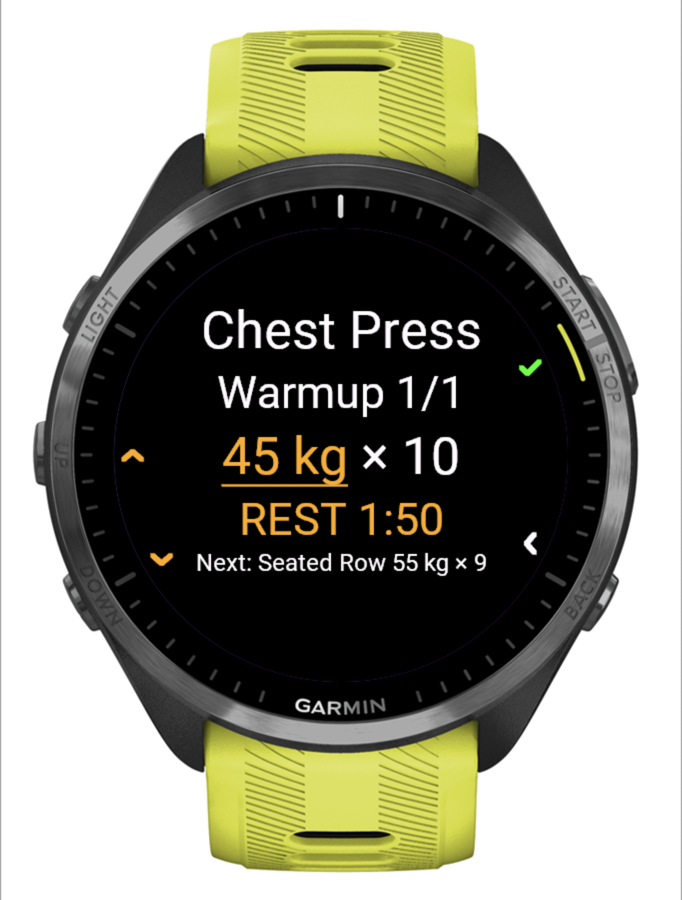
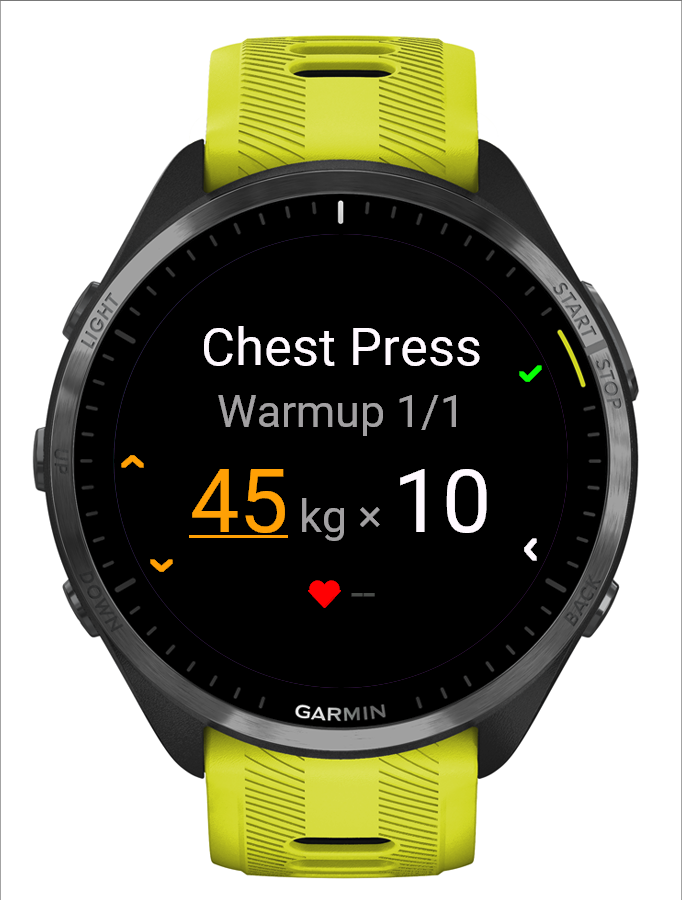
Docs and screenshots for the new screens, pounds and program questions

diff --git a/README.md b/README.md
@@ -11,19 +11,22 @@ No phone in your hand at the gym, no second app, no server in between.
 > NextSet is an independent hobby project. It is not affiliated with or endorsed by Liftosaur or Garmin.
 
 <p align="center">
-  <img src="docs/screenshots/set-rest.png" width="200" alt="Set screen: Seated Row, set 3 of 3, 55 kg × 9, rest timer">
-  <img src="docs/screenshots/change-load.png" width="200" alt="Load selected in yellow on the set screen">
-  <img src="docs/screenshots/overview.png" width="200" alt="Overview: exercise progress, total sets and elapsed time">
-  <img src="docs/screenshots/edit-set.png" width="200" alt="Editing the last logged set">
+  <img src="docs/screenshots/set.png" width="200" alt="Set screen: Seated Row, set dots, 55 kg × 9 with the reps underlined, heart rate">
+  <img src="docs/screenshots/rest.png" width="200" alt="Rest: blue ring and 1:57 countdown, the next set 55 kg × 9">
+  <img src="docs/screenshots/change-load.png" width="200" alt="Warmup with the load selected in yellow">
+  <img src="docs/screenshots/finish.png" width="200" alt="Finish? 2 sets, 1 exercise, 0:40">
 </p>
 <p align="center"><sub>Forerunner 965 simulator with a made-up program (<code>monkey.demo.jungle</code>).</sub></p>
 
 ## Features
 
 - **Your Liftosaur program on the watch.** Sync downloads the days of the current week (up to eight) with per-set targets, warmups, rep ranges, rest timers, supersets and timed sets. After a sync you can train without the phone.
-- **One press per set.** UP/DOWN adjust the reps (or the load, switched from the menu), START logs the set and starts the rest timer. A short vibration warns 10 s before the rest ends, and an overtime clock counts up after it.
-- **Warmups, supersets, timed sets.** Warmups come from the program and upload as Liftosaur warmup sets. Supersets alternate automatically. Timed sets (planks, dead bugs) count down and log the held time.
-- **Change things on the fly.** Change the load, edit or delete the last set, add a set, skip warmups, skip or replace an exercise, or change the weight step (0.5 / 1 / 2.5 / 5 kg).
+- **One press per set.** UP/DOWN adjust the reps (or the load, switched from the menu), START logs the set and starts the rest. The rest is a blue ring around the screen with the time left, and the centre already shows the next set's weight, so you can load the bar or move the pin. A medium vibration comes 10 s before the rest ends, a long one when it is over, and the ring turns green while the overtime counts up.
+- **Heart rate.** The live heart rate sits at the bottom of the set and rest screens; the summary shows the workout's average and maximum.
+- **Kilograms or pounds.** Weights stay in the unit your Liftosaur account uses (`kg` or `lb`), on the watch and in the upload.
+- **Programs that ask for values.** Sets that log an RPE ask for it right after the set, and exercises with prompted variables (Liftoscript `state.name+`) ask for each value after the last set. Both start at the program's suggestion: START saves, BACK keeps the suggestion.
+- **Warmups, supersets, timed sets.** Warmups come from the program and upload as Liftosaur warmup sets. Supersets alternate automatically. Timed sets (planks, dead bugs) count down and log the held time; one-sided timed sets record the left and then the right side.
+- **Change things on the fly.** Change the load, edit or delete the last set, add a set, skip warmups, skip or replace an exercise, or change the weight step (0.5 / 1 / 2.5 / 5 kg, or 1 / 2.5 / 5 / 10 lb).
 - **Direct upload to Liftosaur.** Up to four finished workouts are queued and uploaded over the phone connection. An interrupted upload retries safely, and nothing is sent twice. If the program changed since you trained, the upload stops and tells you, instead of writing to the wrong day.
 - **Garmin activity.** Each workout is also a Training activity in Garmin Connect, with heart rate, duration and one lap per set.
 - **Crash safe.** The workout is saved after every set. If the watch or app restarts, you continue where you were.
@@ -69,23 +72,23 @@ To update a sideloaded copy, copy the new `.prg` over the old one. Your workouts
 2. **Sync.** With the phone nearby, choose **Menu → Settings → Sync routines**, or press START on Home when nothing is synced yet. Home shows "Synced N days" when done.
 3. **Train.** Choose the day with UP/DOWN on Home and press START.
 
-Hold UP to open the menu anywhere. The small icons at the screen edge show what each button does; the UP/DOWN arrows turn yellow while they change the load.
+Hold UP to open the menu anywhere. The small icons at the screen edge show what each button does. Every workout screen keeps the same places: the exercise at the top, set dots (or the rest time) below it, weight and reps in the middle, heart rate at the bottom. Yellow and underlined is what UP/DOWN change.
 
 ## Using NextSet
 
-- **Log a set:** UP/DOWN change the reps, START logs the set and starts the rest. A second press within 800 ms is ignored.
-- **Change the load:** hold UP and choose **Change load** (the first item). The weight turns yellow and UP/DOWN change it by your weight step; fast presses speed up (two, then four steps per press). **Change reps** in the same place switches back. Logging a set switches back to reps. A changed load carries over to the following sets unless the program gives them a different weight. On touch watches you can also tap the weight.
+- **Log a set:** UP/DOWN change the reps, START logs the set and starts the rest. A second press within 800 ms is ignored. If the program asks for an RPE or prompted values, a question screen follows (UP/DOWN change, START saves, BACK keeps the suggestion).
+- **Change the load:** hold UP and choose **Change load** (the first item). The weight turns yellow and underlined, and UP/DOWN change it by your weight step; fast presses speed up (two, then four steps per press). **Change reps** in the same place switches back. Logging a set switches back to reps. A changed load carries over to the following sets unless the program gives them a different weight. On touch watches you can also tap the weight.
 - **Fix the last set:** hold UP for the menu: **Edit last set** (showing its values) and **Delete set N** are at the top. The editor shows load and reps together (hold UP switches between them, START saves, BACK cancels).
-- **Timed sets:** START starts the countdown, START again logs the held time, BACK pauses.
-- **Overview:** BACK from an exercise shows all exercises with progress and the elapsed time. Pick any exercise to train out of order.
+- **Timed sets:** START starts the countdown, START again logs the held time, BACK pauses. A one-sided set shows "Left side", then "Right side": hold each side and press START after each.
+- **Overview:** BACK from an exercise shows the exercises one at a time with their set dots. UP/DOWN browse, START trains the shown exercise, so you can go out of order.
 - **Finish:** **Menu → Finish workout** (also offered after the last set) opens a review with the workout time, sets and exercises done. START saves; BACK opens a choice between **Keep working** (selected first) and **Discard workout** (UP/DOWN move, START confirms, BACK returns to the review). The summary then shows the upload status live. **Cancel workout** in the same menu goes straight to that choice; discarding throws the workout away: no history, no upload, and the Garmin activity is discarded. These screens, and the confirmations for deleting a set or clearing the upload queue, answer only to the buttons, never to taps.
-- **History:** the last four workouts, with the Liftosaur upload state of each.
+- **History:** the last four workouts, one per page, with a check for the Garmin activity and the Liftosaur upload. START shows the sets.
 - **When something goes wrong:** pending uploads retry after 2, 5 and 10 minutes while the app is open and at every launch. **Settings → Retry workout upload** retries now. **Skip this upload** and **Clear upload queue** remove stuck jobs; local history is kept.
 
 ## Limitations
 
-- Prompted variables in Liftosaur programs (`promptedVars`) are not asked on the watch, so programs that need them cannot be synced.
-- Unilateral rep counts (left/right) and timed-set progression have not been confirmed against Liftosaur on a real workout yet.
+- RPE, prompted variables, one-sided timed sets, pounds, unilateral rep counts and timed-set progression follow Liftosaur's API documentation but have not been confirmed with a real workout upload yet.
+- Heart rate on screen comes from the running Garmin activity; the summary's average and maximum are lost if the app restarts during the workout (the Garmin activity keeps them).
 - The Garmin activity is a Training activity with NextSet's own lap fields. It does not create Garmin's native strength sets, and Garmin Connect does not display the custom fields.
 - Only the Forerunner 965 has been tested on real hardware. Details are in [docs/DEVICE_TESTS.md](docs/DEVICE_TESTS.md).
 

diff --git a/CLAUDE.md b/CLAUDE.md
@@ -45,7 +45,7 @@ Liftosaur is the source of routines and progression. The watch talks directly to
 - `StrengthRecorder` still records a Training / Generic FIT activity with per-set lap fields and session summary fields. The exercise lap field is 64 bytes; `fitText` cuts names at whole characters to fit. It is a Garmin activity fallback, not a native planned workout.
 - Set screen input: keys act on press (0.3.4 behaviour). On the FR965 only hold UP (menu) reaches an app; hold START, DOWN and LIGHT are firmware shortcuts (hold DOWN opens music controls), so do not use holds. The reps/load switch is the first exercise menu item ("Change load" / "Change reps"), toggling `ExerciseView` in place (yellow highlight); from the Overview it opens `SetEditView`. `RapidPress` (`source/ui/SetEditView.mc`) speeds up fast same-direction load presses (x2 from the 4th, x4 from the 8th). `SetEditView` edits load and reps of the next or a logged set together (MENU switches the field); `NumberEditView` remains for timed durations and settings. Edit last set and Delete set N follow in the menu.
 - Finish flow (key-only, no Menu2): Hold UP → Workout… → Finish workout (and the prompt after the last set or the last skipped exercise) pushes `ReviewView` (`source/ui/FinishViews.mc`: elapsed time, sets, exercises via `UiFormat.reviewStats`). START calls `requestWorkoutFinish("completed")` (the controller still refuses a workout with no set); BACK opens `ConfirmView` with `DiscardWorkoutAction` (Keep working selected first, Discard calls `requestWorkoutFinish("aborted")`, BACK returns to the review). Cancel workout opens the same confirmation. Delete set N and the upload-queue / skip-upload / clear-key confirmations are the same `ConfirmView` with a `ConfirmAction` (`DeleteSetAction`, `QueueAction`). These delegates extend `KeyDelegate` (`source/ui/KeyDelegate.mc`, a `WatchUi.InputDelegate` that dispatches only physical keys to `onStartKey`/`onBackKey`/`onUpKey`/`onDownKey`/`onMenuKey` and consumes every touch callback; hold UP arrives as KEY_MENU). START within 800 ms of a screen opening is ignored (`FinishGuard`), so the set-logging press cannot confirm the end-of-workout prompt. The set screen keeps its tap-to-edit weight; other screens are still BehaviorDelegates/Menu2.
-- Rest ring: while a rest runs, `ExerciseView.drawRestRing` draws a dim ring at the very edge (outside the button icons; inside them it crossed the title) with a yellow arc for the remaining fraction (`RestClock.ringFraction`, `ringEndDegrees`, unit-tested) and a full green ring in overtime. It adds no redraw beyond the existing 1 s rest redraw.
+- Rest ring: while a rest runs, `ExerciseView.drawRestRing` draws a dim ring at the very edge (outside the button icons; inside them it crossed the title) with a blue arc for the remaining fraction (`RestClock.ringFraction`, `ringEndDegrees`, unit-tested) and a full green ring in overtime. It adds no redraw beyond the existing 1 s rest redraw.
 - Superset switch cue: `NextSetApp.buzz(true)` is a single-profile vibration plus a second one from a later `onTick` (`BuzzLogic`, `_buzzRepeatAt`), never in a tick that vibrates or whose checkpoint write is due (`SessionController.checkpointDue`). Multi-profile `Attention.vibrate` patterns did not vibrate at all on a real FR965 in the sibling app ColdStart 0.1.2, so do not use them.
 - `source/ui/` contains button-operated views and delegates. `Navigator` owns screen transitions; its workout-menu and finish-flow functions are in `source/ui/WorkoutNavigator.mc` (same module), the finish views and delegates in `FinishViews.mc`, the exercise menus in `WorkoutMenus.mc`. Keep callbacks passed to `method(:callback)` public; private timer or web callbacks can compile but fail at runtime.
 
@@ -53,7 +53,11 @@ Requests need the phone or watch Wi-Fi, so they must remain asynchronous and out
 
 The Liftosaur key is entered on the watch (Settings → Liftosaur key, `TextPicker` via `NextSetApp.afterKeyEntry`) and stored only in watch app storage (`Store` domain `apikey`); there is no Connect IQ app setting. It is shown only masked, and Settings has Test key (`key_test`, read-only `GET /programs/current`) and Clear key. Never hard-code, print, commit, or place it in fixtures. It grants Liftosaur account access. Tests must use sanitized fixtures and fakes; do not make live POST requests unless the user explicitly approves the first real workout write.
 
-Prompt-variable answers are not collected by the watch. Unilateral `repsLeft` and timed-set progression have not been verified by a real Liftosaur workout write. Keep these limitations visible until the approved device check confirms behavior.
+RPE, prompted variables, one-sided timed sets, pounds, unilateral `repsLeft` and timed-set progression have not been verified by a real Liftosaur workout write. Keep these limitations visible until the approved device check confirms behavior.
+
+- Screen layout (UI rules below): `UiFormat.drawTitle` (name, one line medium or two lines small), `Icons.setDots`, `UiFormat.drawBig` (number font with small units, focus part yellow and underlined) and `UiFormat.drawHrRow` (live HR from `Activity.getActivityInfo()`, or an error in red) at fixed heights (25 / 39 / 57 / 79 %). `NextSetApp.onTick` redraws the set screen and Overview when the HR changes and keeps avg/max in memory for the summary. The one-time load hint is remembered in the storage key `hint.load`.
+- Units: weights keep the account's unit (`Model.weightUnit`, exercise `loadUnit` / routine `unit` = "kg" or "lb"; load100 is hundredths of that unit). Jobs store `unit` per exercise (absent = kg) and upload with `UploadLogic.weightString`; FIT fields are converted with `Model.toKg`.
+- Values Liftosaur asks for: plan targets keep `logRpe` / `rpe10`, exercises keep `prompts` and `userVars` (defaults = advertised values). `QuestionLogic.afterSet` decides what `QuestionView` asks after a set; answers go to completed `rpe10` and exercise `userVars`. One-sided timed sets store the left hold in the draft (`leftSec`) and complete with `durationLeftSec`. `UploadLogic.mappedCompleted` sends `rpe`, `userVars` and `setTimerLeft`, falling back to the program's suggestion.
 
 ## UI rules
 

diff --git a/docs/DEVICE_TESTS.md b/docs/DEVICE_TESTS.md
@@ -62,7 +62,11 @@ NextSet 0.3.4 syncs routines from Liftosaur, caches per-set targets and uploads 
 - [ ] **PENDING** (0.3.7) New dinosaur launcher icon: check that it reads clearly in the FR965 app list (65 px) and, if available, on a 40 px launcher watch such as an fr255 or fenix 7. The simulator has no app list; only the renders and builds were checked.
 - [ ] **PENDING** (unreleased, after 0.3.7) Superset switch cue is now two single-profile vibrations (80 % x 200 ms, then another from the next tick about 0.4-1.4 s later) instead of one multi-profile pattern, because ColdStart's multi-profile pattern did not vibrate on a real FR965. Check on the FR965 that logging the last set of a superset member gives two distinct buzzes (and one with vibration off: none), and that a plain set still gives one short buzz.
 - [ ] **PENDING** (unreleased, after 0.3.7) Key-only finish flow on the FR965: hold UP → Workout… → Finish workout (or the prompt after the last set) opens the review (time, sets, exercises); START saves, BACK opens Keep working / Discard (Keep selected first, UP/DOWN move, START confirms, BACK returns to the review); Cancel workout opens the same Keep/Discard screen. Delete set N and the upload-queue / skip-upload / clear-key confirmations use the same key-only screen. Check that START right after logging the last set does not confirm the prompt (800 ms guard), that buttons work as on the other screens, and (touch watches) that taps do nothing on these screens. Simulator: the screens render on fr965 and fenix7s; key handling was not exercised there.
-- [ ] **PENDING** (unreleased, after 0.3.7) Rest ring on the set screen: dim ring at the screen edge with a yellow arc that shrinks clockwise to zero during a rest, and a full green ring in overtime; check it does not touch the button icons or text on the FR965 (simulator: fr965 and fenix7s looked clean; fr255s not checked, the demo build trips the simulator watchdog there).
+- [ ] **PENDING** (unreleased, after 0.3.7) New screen layout (simulator fr965 and fenix7s only): set screen with the name on top (two lines for long names, never cut), set dots, big weight and reps, live heart rate at the bottom; rest screen with blue ring and time, next set in the centre; heart rate updates about once a second and the battery drain over a workout is acceptable; summary shows average and max HR. The simulator has no heart rate, so only "--" was seen.
+- [ ] **PENDING** (unreleased, after 0.3.7) Vibrations told apart by length on the FR965: set logged short (120 ms), 10 s before rest end medium (400 ms), rest over long (1 s).
+- [ ] **PENDING** (unreleased, after 0.3.7; needs a real upload) Pounds: an lb account syncs, shows lb, steps 5 lb, and the upload records the same weights in Liftosaur; the Garmin lap weight is in kg.
+- [ ] **PENDING** (unreleased, after 0.3.7; needs a real upload) RPE and prompted variables: the question appears after the set / after the exercise's last set, starts at the program's value, and Liftosaur accepts the upload and applies the answers in progression. One-sided timed sets: "Left side" then "Right side", and Liftosaur records both holds.
+- [ ] **PENDING** (unreleased, after 0.3.7) Rest ring on the set screen: dim ring at the screen edge with a blue arc that shrinks clockwise to zero during a rest, and a full green ring in overtime; check it does not touch the button icons or text on the FR965 (simulator: fr965 and fenix7s looked clean; fr255s not checked, the demo build trips the simulator watchdog there).
 - [x] **FAILED** (0.3.5, 2026-10-29, user on FR965) Holds other than UP do not reach the app: hold DOWN opened the music controls and hold START did nothing. Only hold UP (menu) works. 0.3.6 drops all holds and puts the reps/load switch in the menu.
 
 ## General device checks (still open)

diff --git a/docs/LIFTOSAUR_API.md b/docs/LIFTOSAUR_API.md
@@ -36,6 +36,7 @@ Writes are idempotent by `startTime`, so a job interrupted at any step retries s
 ## Unverified
 
 - Unilateral `repsLeft` and timed-set progression have not been confirmed by a real workout write.
+- Sets that ask for a value (API "Sets that ask for a value"): `logRpe` sets send `completed.rpe`, entries with `promptedVars` send `completed.userVars` on every set, one-sided timed sets send `setTimerLeft` with `setTimer`. Values the lifter did not answer fall back to the program's own suggestion (the set's `rpe`, the advertised variable value, the right-side hold). Not yet confirmed by a real write.
+- Weights keep the account's unit: `"135lb"` syncs and uploads as lb; FIT weight fields are converted to kg. Not yet confirmed by a real write.
 - Assistance weights are negative in NextSet and sent as positive weights.
-- Prompted variables (`promptedVars`) are not collected; programs that need them are not supported.
 - Liftosaur's acceptance of `intervals` from NextSet awaits the next real upload (see `DEVICE_TESTS.md`).
